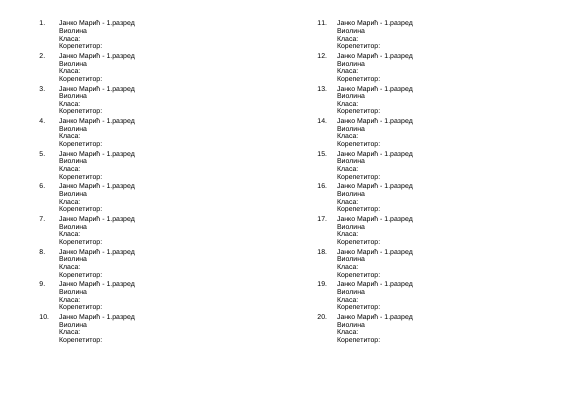
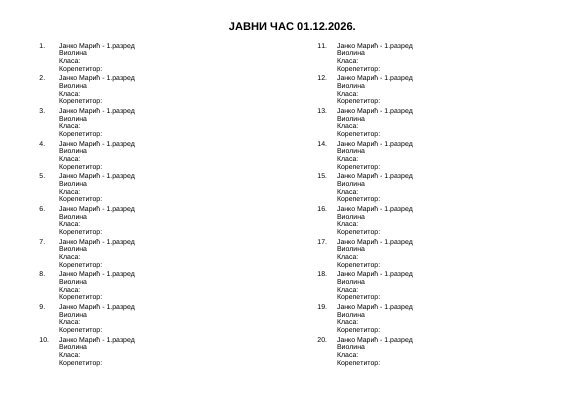
Template: add ЈАВНИ ЧАС 01.12.2026. heading above the list
Claude-Session: https://claude.ai/code/session_01LY5EZ1CyCikCN3sfjwXzPA

Changed region(s): [[0.4, 0.029, 0.7077, 0.8986], [0.0615, 0.029, 0.2462, 0.8986]]

diff --git a/output/make_template.py b/output/make_template.py
@@ -1,6 +1,8 @@
 from docx import Document
 from docx.shared import Pt, Cm
-from docx.enum.text import WD_BREAK, WD_LINE_SPACING
+from docx.enum.text import WD_BREAK, WD_LINE_SPACING, WD_ALIGN_PARAGRAPH
+from docx.enum.section import WD_SECTION
+from docx.shared import RGBColor
 from docx.oxml.ns import qn
 from docx.oxml import OxmlElement
 
@@ -9,6 +11,7 @@ FONT_SIZE = 10
 # Page 1: 1-10 | 11-20.  Page 2: 21-31 | 32-41.
 BREAKS = {11: WD_BREAK.COLUMN, 21: WD_BREAK.PAGE, 32: WD_BREAK.COLUMN}
 N = 41
+TITLE = 'ЈАВНИ ЧАС 01.12.2026.'
 
 doc = Document()
 st = doc.styles['Normal']
@@ -22,6 +25,20 @@ sec = doc.sections[0]
 sec.page_width, sec.page_height = Cm(29.7), Cm(21)   # A4 landscape
 for m in ('top_margin', 'bottom_margin'): setattr(sec, m, Cm(1))
 for m in ('left_margin', 'right_margin'): setattr(sec, m, Cm(2))
+
+# Title (Heading 1) spans the full page width, in its own one-column section
+h = doc.add_heading(TITLE, level=1)
+h.alignment = WD_ALIGN_PARAGRAPH.CENTER
+h.paragraph_format.space_before = Pt(0); h.paragraph_format.space_after = Pt(14)
+h.paragraph_format.line_spacing_rule = WD_LINE_SPACING.SINGLE
+for r in h.runs:
+    r.font.name = 'Arial'; r.font.size = Pt(16); r.font.bold = True
+    r.font.color.rgb = RGBColor(0, 0, 0)
+    r._element.rPr.rFonts.set(qn('w:eastAsia'), 'Arial')
+    r._element.rPr.rFonts.set(qn('w:cs'), 'Arial')
+
+# The list goes in a continuous two-column section below the title
+sec = doc.add_section(WD_SECTION.CONTINUOUS)
 cols = OxmlElement('w:cols'); cols.set(qn('w:num'), '2'); cols.set(qn('w:space'), '1440')
 sec._sectPr.append(cols)
 
